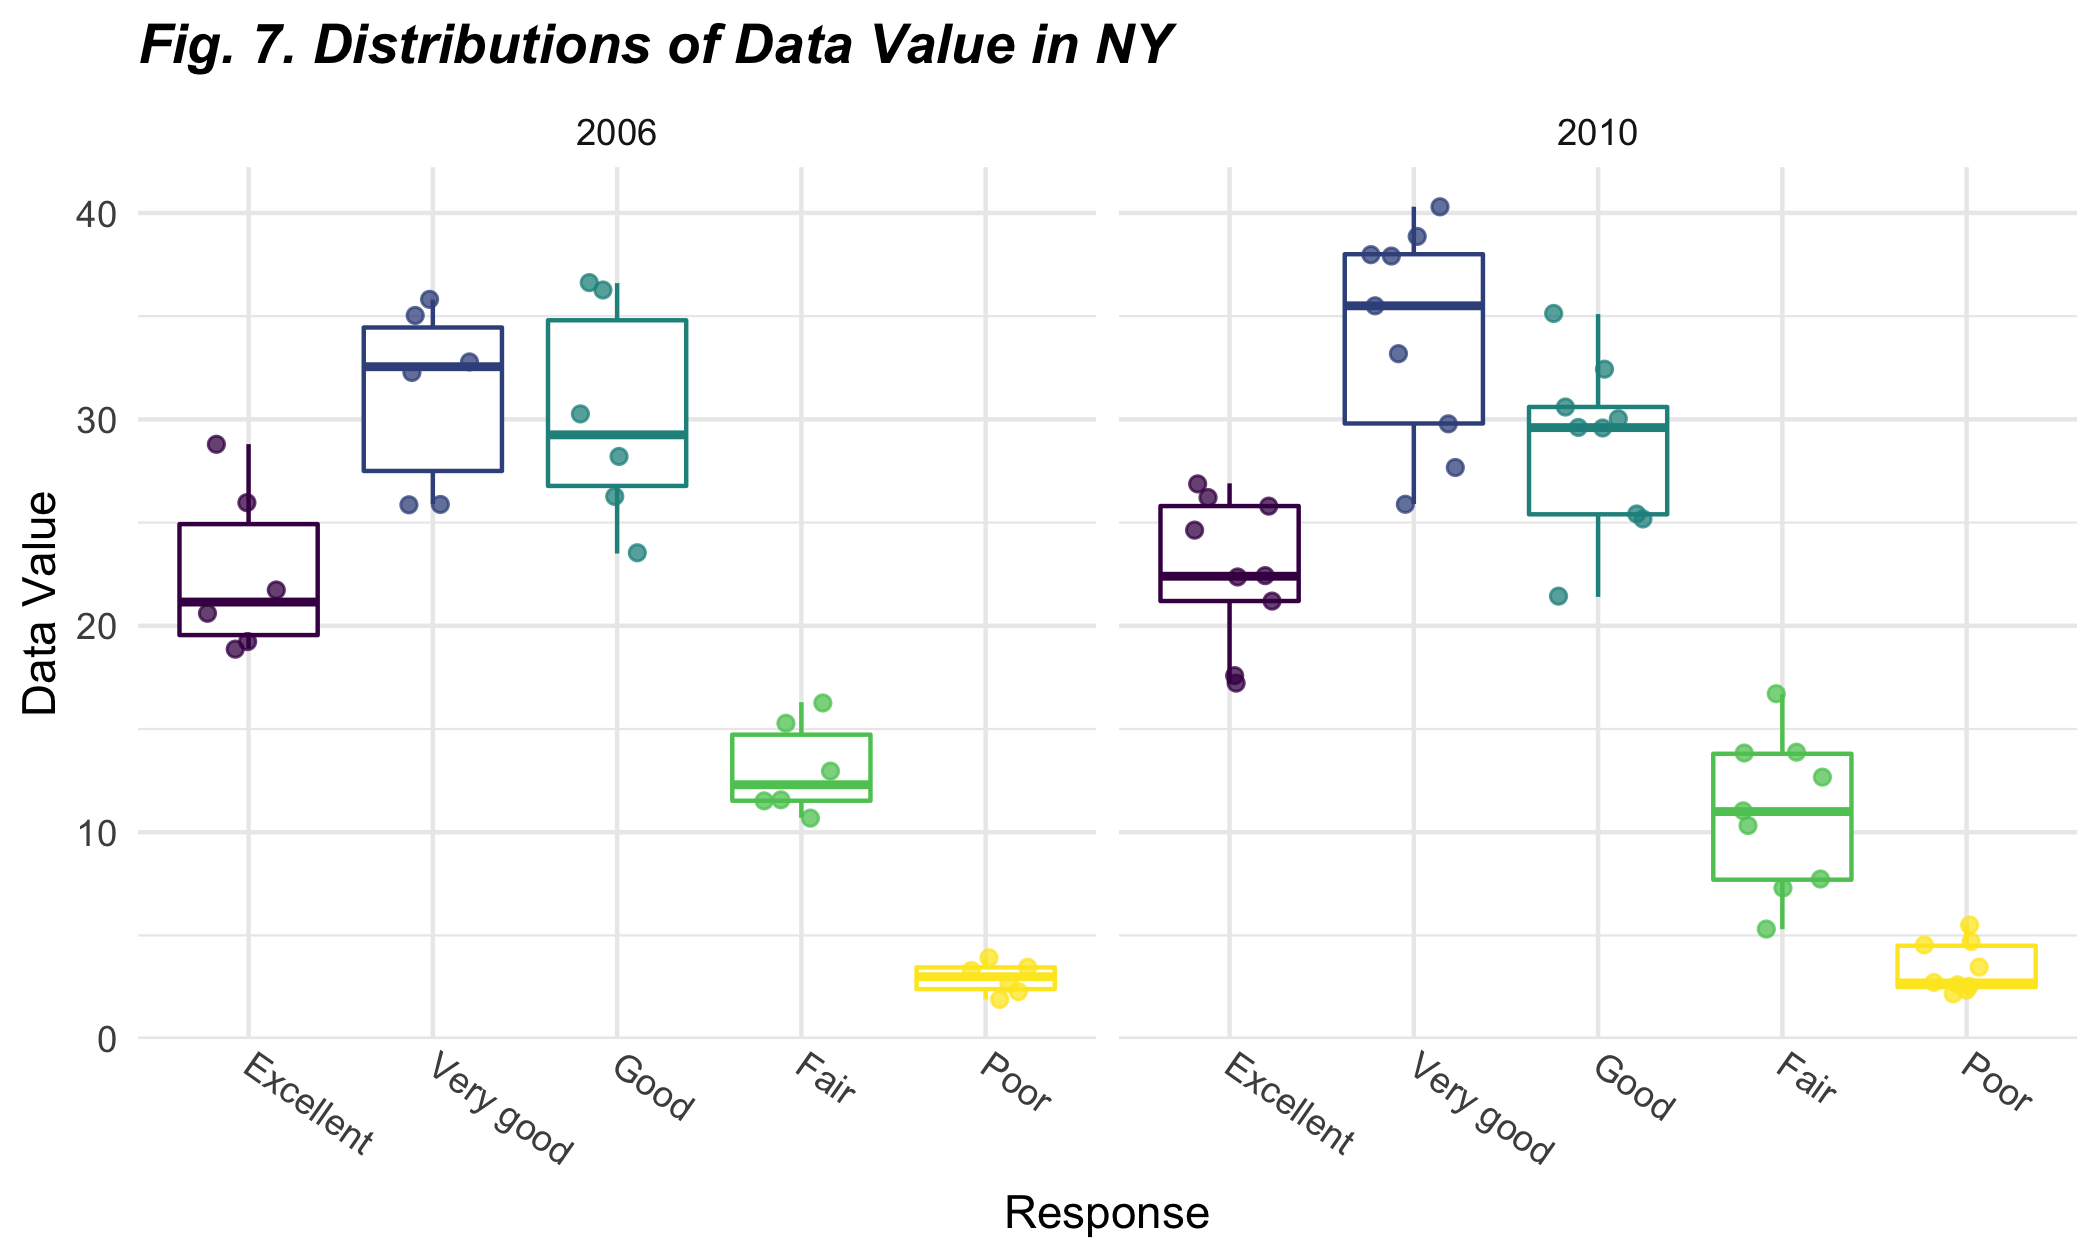
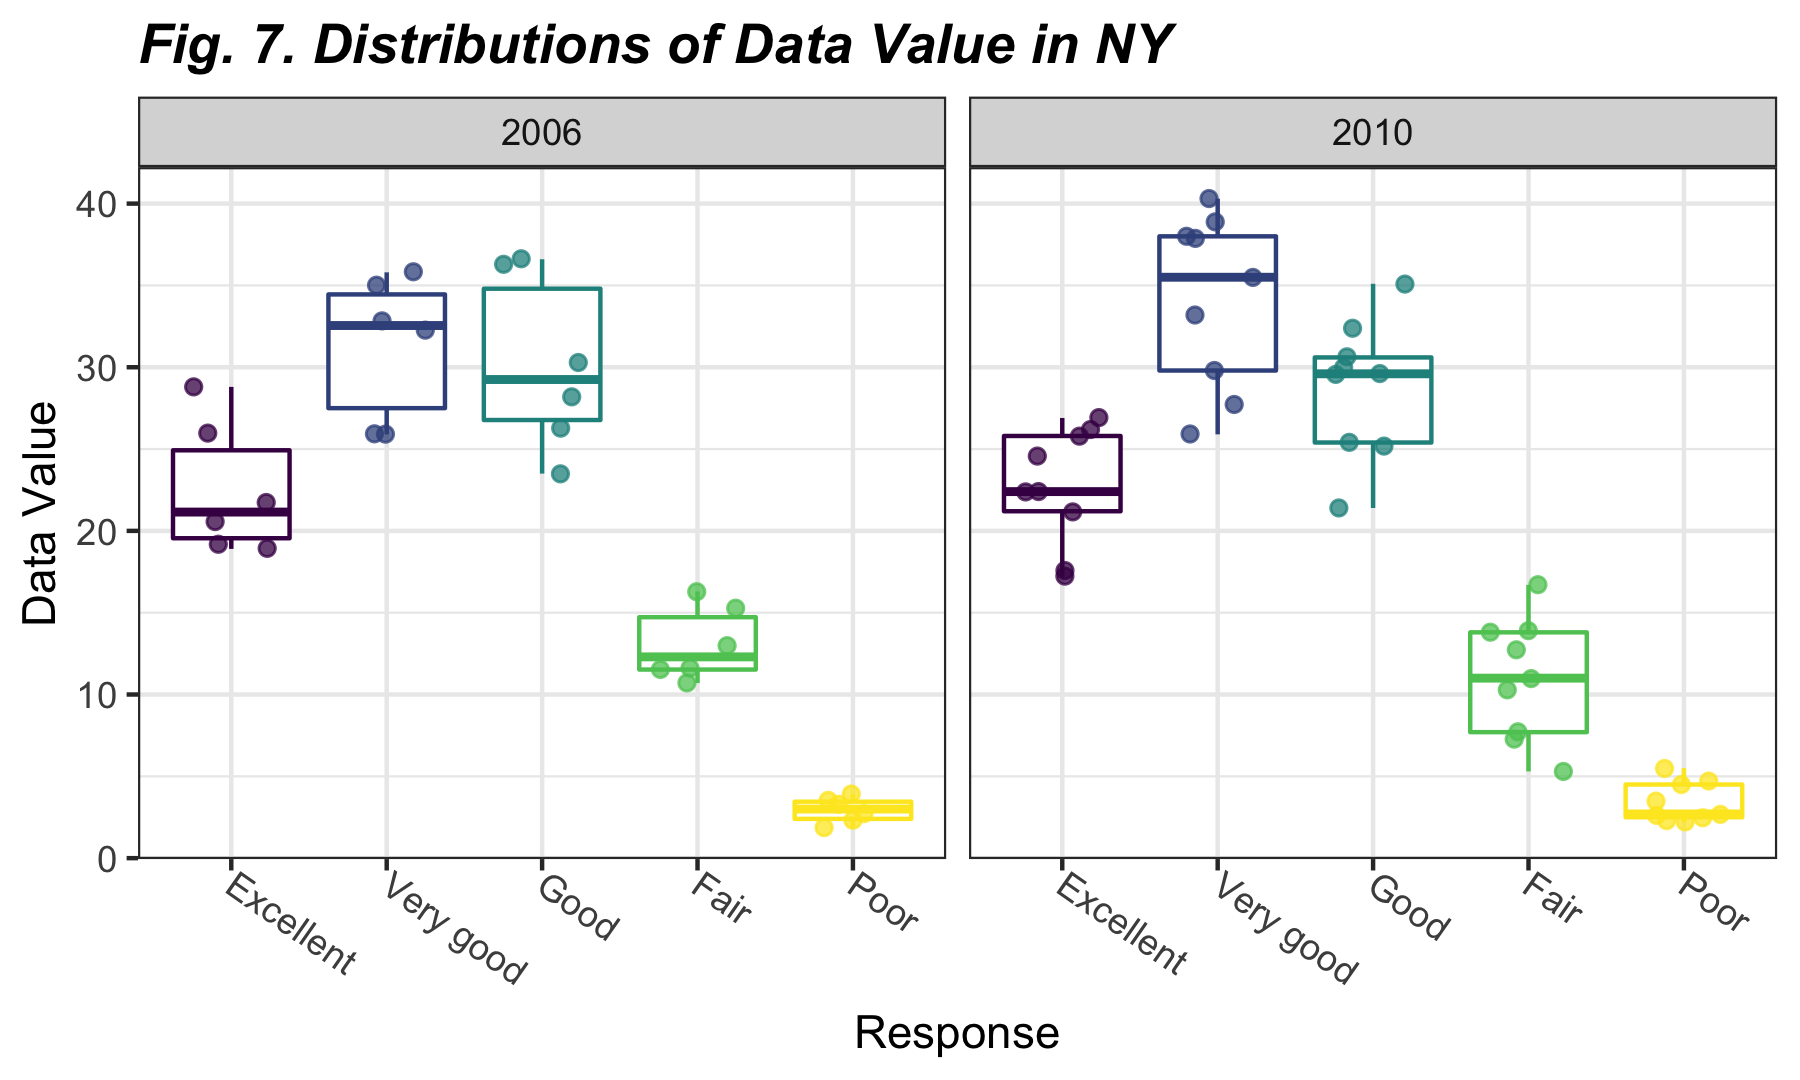
troubleshoot md

diff --git a/p8105_hw3_jys2137.md b/p8105_hw3_jys2137.md
@@ -382,6 +382,7 @@ brfss_df %>%
   geom_boxplot() +
   geom_jitter(width = 0.25, alpha = 0.75) +
   facet_grid(~year) +
+  theme_bw() +
   theme(
     legend.position = "none",
     axis.text.x = element_text(angle = -35, hjust = 0, vjust = .5),
